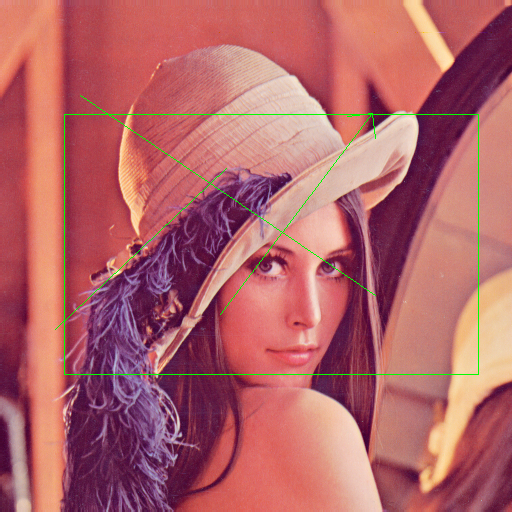
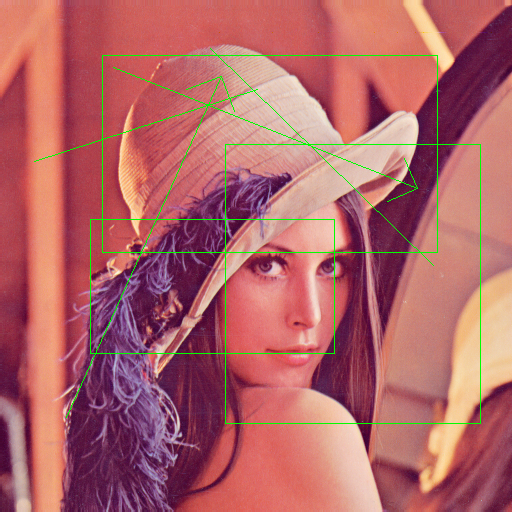
update task description

diff --git a/week2/README.md b/week2/README.md
@@ -7,4 +7,6 @@
 * pip는 특정 패키지만 설치한다. 
 * conda는 특정 패키지를 위해 필요한 것을 같이 설치해준다.(엉킬 수 있다는 잠재적 위험이 존재한다)
 
-
+# task
+* task.py 파일에 구현완료
+![img.png](img.png)
